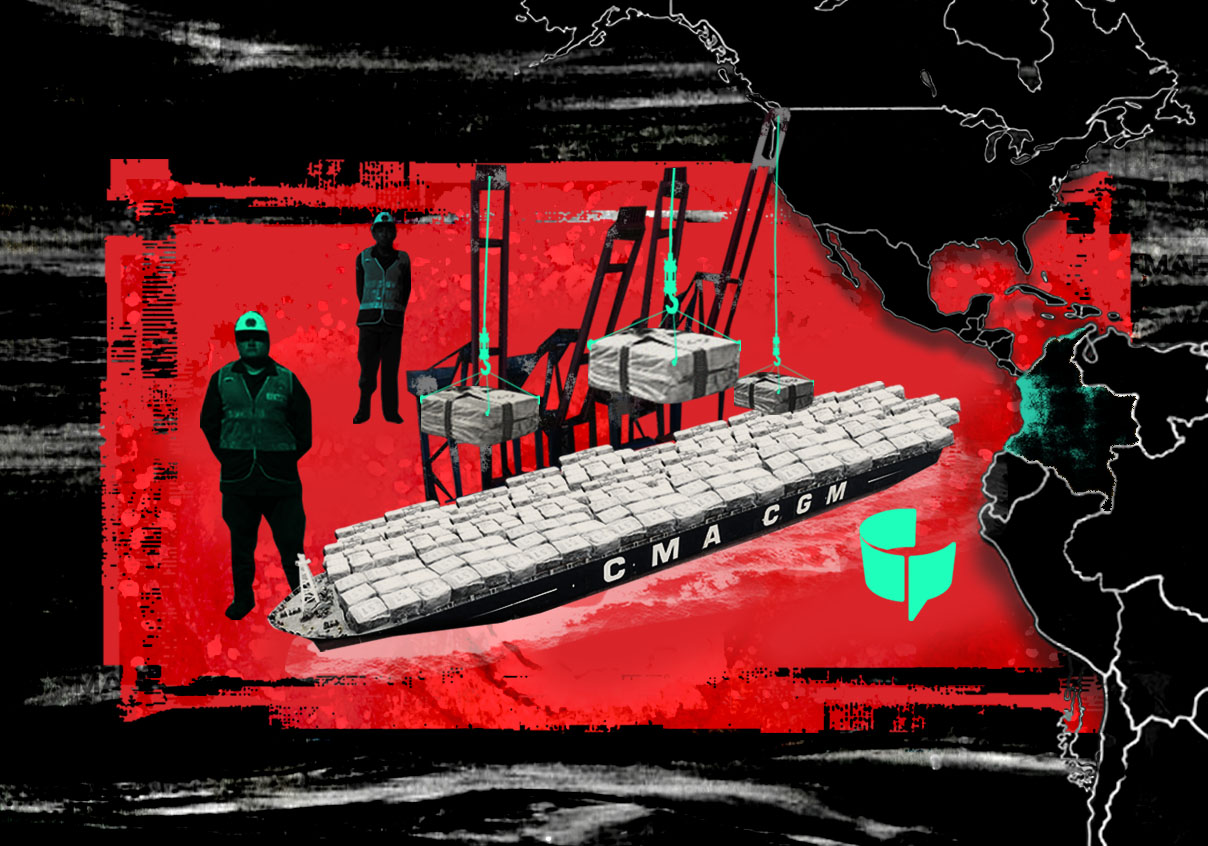
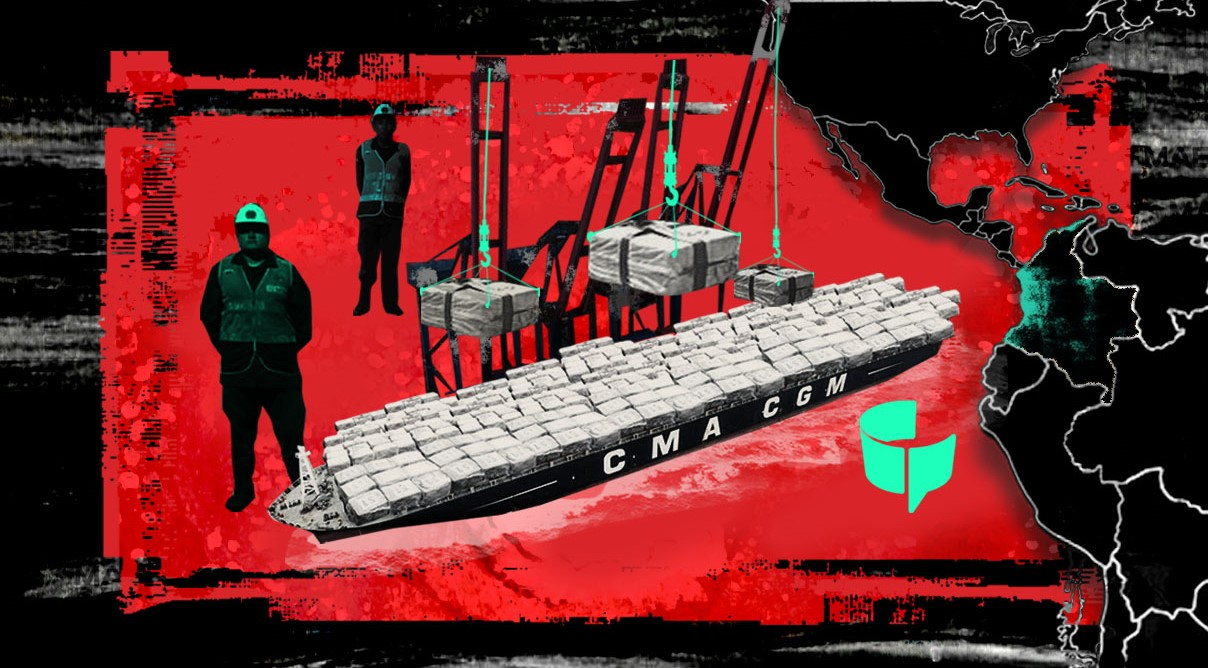
Imagen Cover

diff --git a/index.html b/index.html
@@ -459,7 +459,7 @@
         </figcaption>
       </figure>
       <p class="p2">
-        El cargamento, en el que iban escondidas dos toneladas y media de cocaína, salió de Buenaventura el 8 de junio de 2020. Inicialmente, estaba previsto que el contenedor fuera a bordo del buque Cristina Star de CMA-CGM, pero por falta de espacio, terminó yendo a en el buque Dublin Express y posteriormente en el Callao Express, ambos operados por la naviera alemana Hapag-Lloyd. <br>
+        El cargamento, en el que iban escondidas dos toneladas y media de cocaína, salió de Buenaventura el 8 de junio de 2020. Inicialmente, estaba previsto que el contenedor fuera a bordo del buque Cristina Star de CMA-CGM, pero por falta de espacio, terminó yendo en el buque Dublin Express y posteriormente en el Callao Express, ambos operados por la naviera alemana Hapag-Lloyd. <br>
         <br>
         Debido a la intervención del agente encubierto, el alcaloide <a loading="lazy" href="javascript:window.open('assets/docs/DC15.webp','mywindowtitle','height=800,width=1000,left=500,top=100')">fue confiscado</a> por las autoridades portuarias seis días después mientras hacía una parada en Cartagena, antes de zarpar de nuevo en el Callao Express hacia el puerto francés de Le Havre. La droga estaba avaluada en 12 mil 428 millones de pesos.
       </p>

diff --git a/assets/css/styles.css b/assets/css/styles.css
@@ -131,8 +131,9 @@ footer small a{
 .loop, .video {
   margin-top: 72px;
   width: 100%;
+  display: flex !important;
   align-items: center;
-  justify-items: center;
+  justify-content: center;
 }
 .video{
   display: flex;
@@ -142,8 +143,8 @@ footer small a{
   width: 100%;
 }
 .loop img {
-  width: 100%;
-  height: auto;
+  max-height: 65vh;
+  max-width: 100%;
 }
 .pair{
   position: relative;
@@ -983,8 +984,8 @@ footer small {
     fill: white;
   }
   main h1 {
-    font-size: 7vw;
-    line-height: 7vw;
+    font-size: 80px;
+    line-height: 77px;
   }
   main .p1,
   main .p2 {
